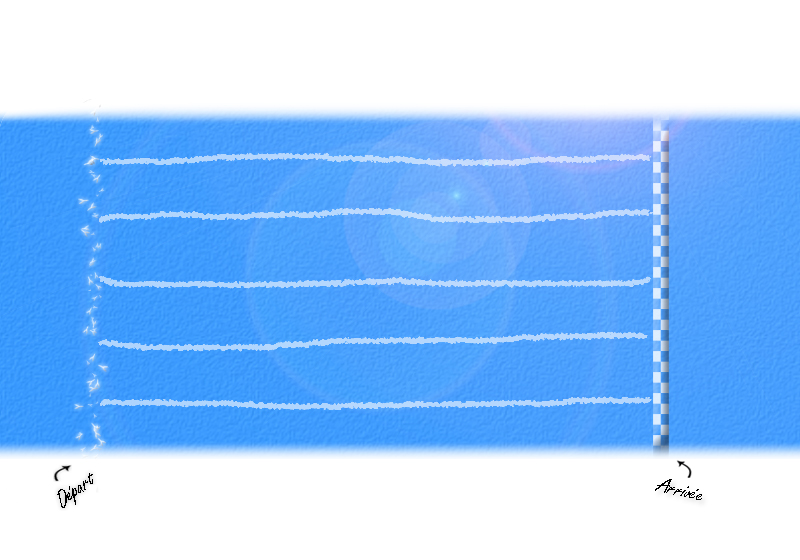
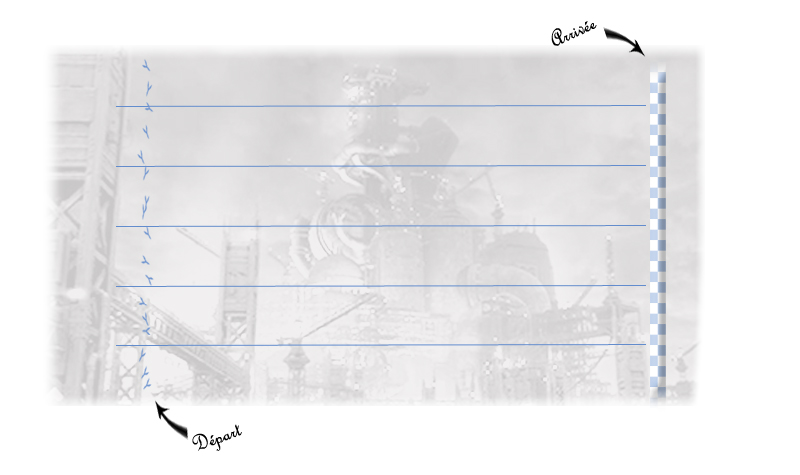
Nouveau design pour la course (circuit Midgar)

diff --git a/application/views/races/results.php b/application/views/races/results.php
@@ -4,20 +4,21 @@
 	.timer {text-align: center; letter-spacing: 5px; height: 17px; font-weight: bold; font-size: 16px;}
 	
 	.circuit_wrapper {
-		background: url("../images/race/circuit.jpg") no-repeat 0 -100px;
+		background: url("../images/race/circuit.jpg") no-repeat;
 		width: 800px;
-		height: 460px;
+		height: 475px;
 		margin: 5px 0 5px 0;
 	}
 	.box {position: relative; height: 50px; padding: 5px 0 5px;}
 	.label {
 		position: absolute; 
-		width: 50px; 
+		width: 82px; 
 		top: 24px; 
 		left: 5px;
 		font-variant: small-caps;
 		font-weight: bold;
 		font-size: 16px;
+		text-align: right;
 	}
 	.allure {position: absolute; left:100px; width: 50px; height: 50px;}
 	.event {
@@ -55,6 +56,7 @@
 
 <div class="circuit_wrapper">
 		
+	<div style="height: 48px;"></div>
 	<?php foreach ($race->results as $result): ?>
 	
 		<div class="box">
